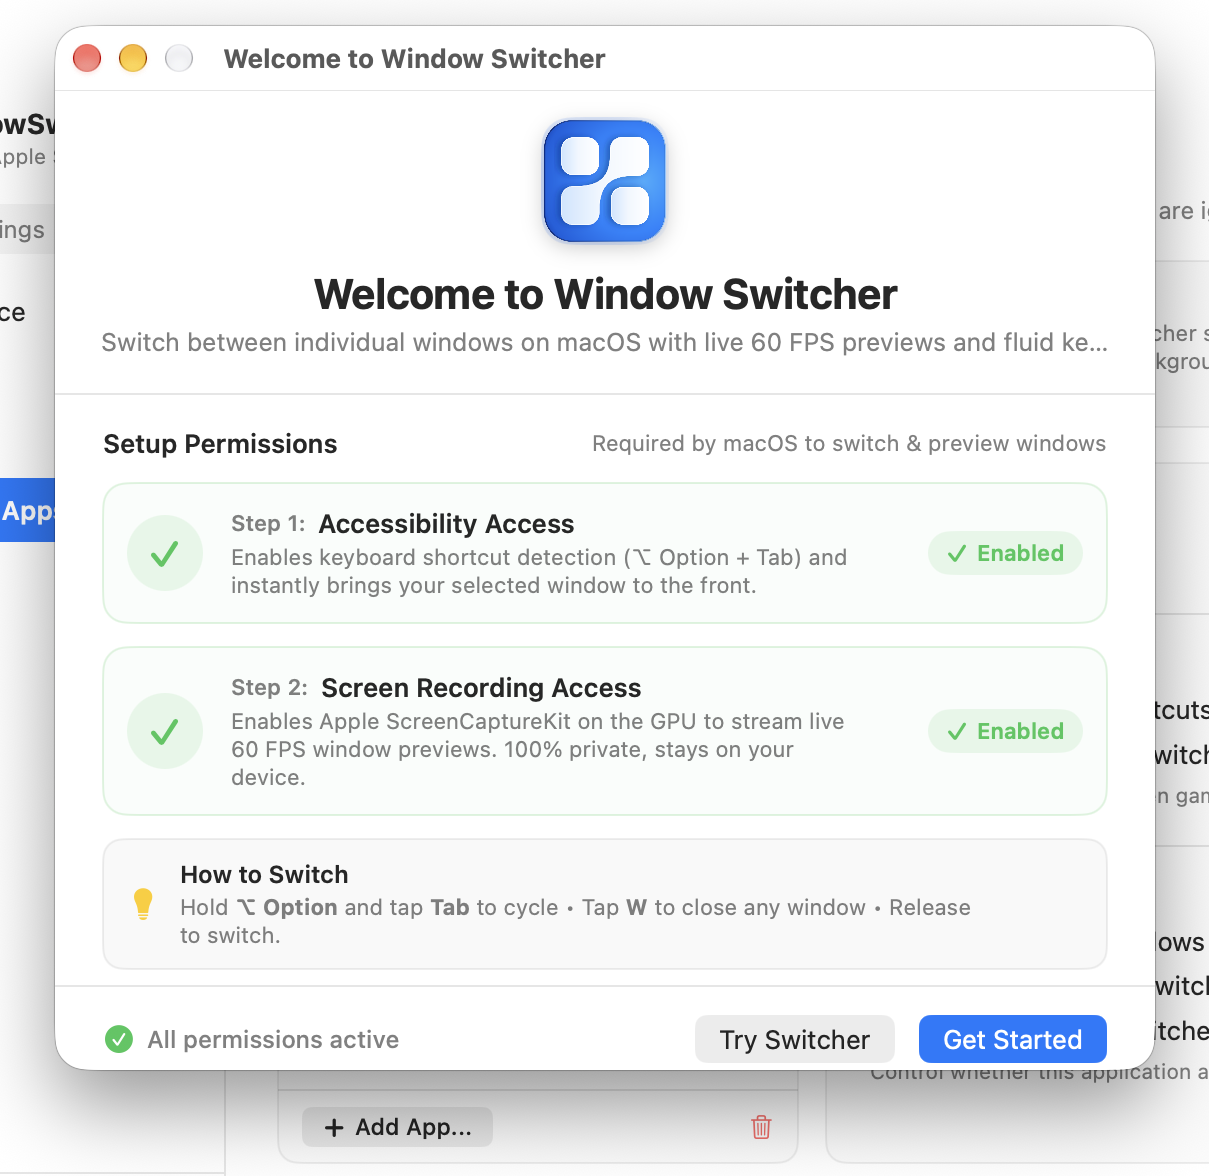
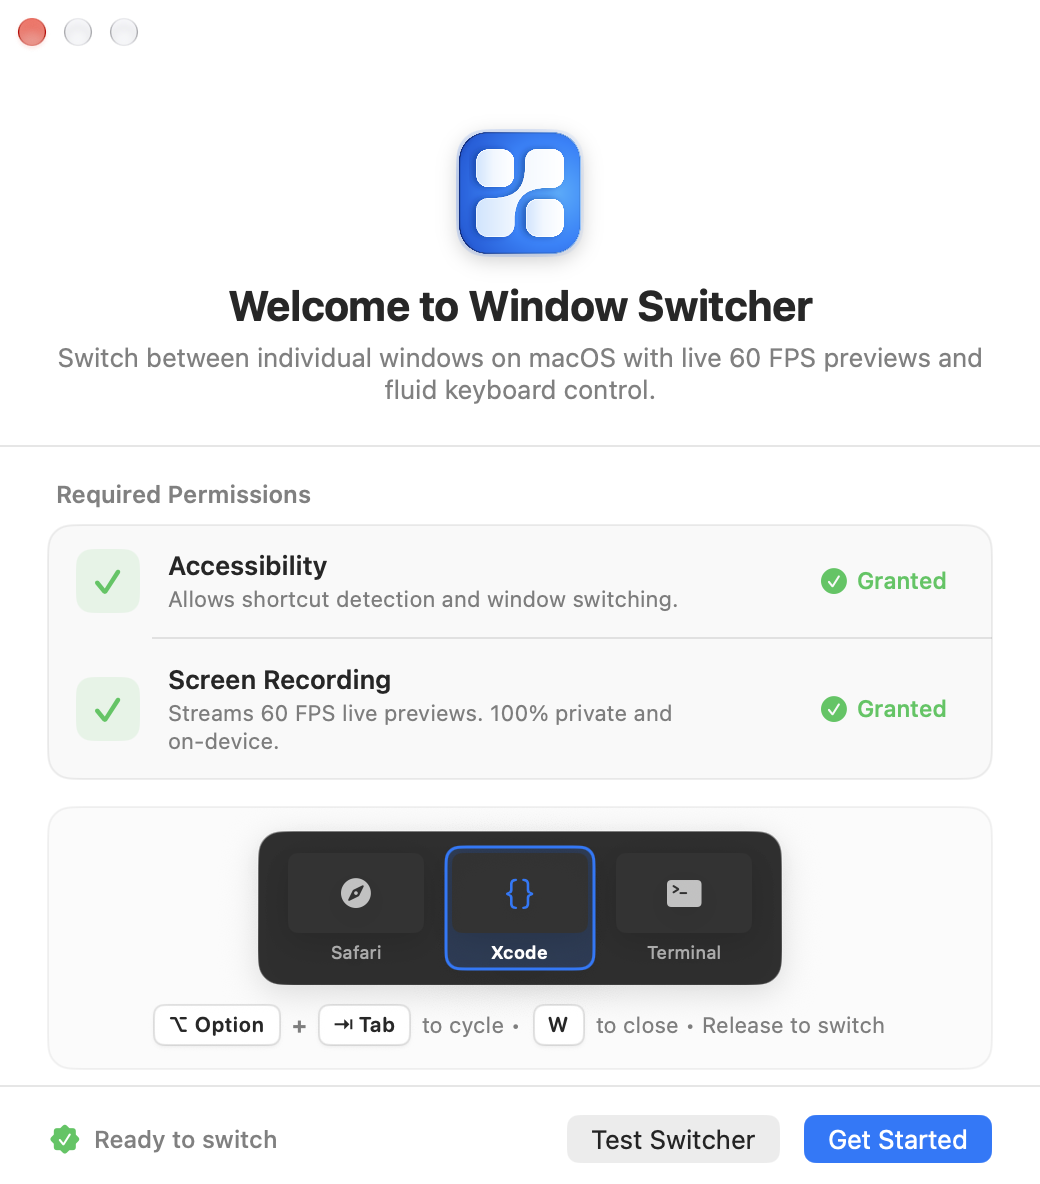
Redesign onboarding view with Apple HIG inset grouped styling and mini switcher preview

diff --git a/Sources/Views/OnboardingView.swift b/Sources/Views/OnboardingView.swift
@@ -16,87 +16,74 @@ public struct OnboardingView: View {
 
     public var body: some View {
         VStack(spacing: 0) {
-            // MARK: - Branded Hero Header
+            // MARK: - Header Hero with Cobalt Azure App Icon
             VStack(spacing: 12) {
                 AppBrandingIcon(size: 64, cornerRadius: 15)
-                    .padding(.top, 24)
+                    .padding(.top, 36)
 
-                VStack(spacing: 4) {
+                VStack(spacing: 5) {
                     Text("Welcome to Window Switcher")
                         .font(.system(size: 21, weight: .bold))
 
                     Text("Switch between individual windows on macOS with live 60 FPS previews and fluid keyboard control.")
-                        .font(.system(size: 12.5))
+                        .font(.system(size: 13))
                         .foregroundColor(.secondary)
                         .multilineTextAlignment(.center)
-                        .padding(.horizontal, 20)
+                        .lineLimit(nil)
+                        .fixedSize(horizontal: false, vertical: true)
+                        .padding(.horizontal, 24)
                 }
             }
-            .padding(.bottom, 18)
+            .padding(.bottom, 20)
 
             Divider()
 
-            // MARK: - Setup & Permissions Checklist
-            VStack(spacing: 12) {
-                HStack {
-                    Text("Setup Permissions")
-                        .font(.system(size: 13, weight: .semibold))
-                    Spacer()
-                    Text("Required by macOS to switch & preview windows")
-                        .font(.system(size: 11))
-                        .foregroundColor(.secondary)
+            // MARK: - Inset Grouped Permissions Checklist (Apple HIG System Settings Style)
+            VStack(alignment: .leading, spacing: 8) {
+                Text("Required Permissions")
+                    .font(.system(size: 12, weight: .semibold))
+                    .foregroundColor(.secondary)
+                    .padding(.leading, 4)
+
+                VStack(spacing: 0) {
+                    // Row 1: Accessibility
+                    permissionRow(
+                        icon: "keyboard",
+                        title: "Accessibility",
+                        subtitle: "Allows shortcut detection and window switching.",
+                        isGranted: permissions.hasAccessibility,
+                        action: { permissions.requestAccessibility() }
+                    )
+
+                    Divider()
+                        .padding(.leading, 52)
+
+                    // Row 2: Screen Recording
+                    permissionRow(
+                        icon: "macwindow.on.rectangle",
+                        title: "Screen Recording",
+                        subtitle: "Streams 60 FPS live previews. 100% private and on-device.",
+                        isGranted: permissions.hasScreenRecording,
+                        action: { permissions.requestScreenRecording() }
+                    )
                 }
-
-                // Step 1: Accessibility
-                permissionStepCard(
-                    stepNumber: 1,
-                    title: "Accessibility Access",
-                    description: "Enables keyboard shortcut detection (\(settings.primaryShortcut.rawValue)) and instantly brings your selected window to the front.",
-                    icon: "keyboard.fill",
-                    isGranted: permissions.hasAccessibility,
-                    actionTitle: "Grant Permission",
-                    action: { permissions.requestAccessibility() }
-                )
-
-                // Step 2: Screen Recording
-                permissionStepCard(
-                    stepNumber: 2,
-                    title: "Screen Recording Access",
-                    description: "Enables Apple ScreenCaptureKit on the GPU to stream live 60 FPS window previews. 100% private, stays on your device.",
-                    icon: "macwindow.on.rectangle",
-                    isGranted: permissions.hasScreenRecording,
-                    actionTitle: "Grant Permission",
-                    action: { permissions.requestScreenRecording() }
+                .background(Color.primary.opacity(0.03))
+                .clipShape(RoundedRectangle(cornerRadius: 12, style: .continuous))
+                .overlay(
+                    RoundedRectangle(cornerRadius: 12, style: .continuous)
+                        .stroke(Color.primary.opacity(0.08), lineWidth: 1)
                 )
             }
             .padding(.horizontal, 24)
             .padding(.top, 16)
 
-            // MARK: - Interactive Quick Tip Card
-            HStack(spacing: 12) {
-                Image(systemName: "lightbulb.fill")
-                    .font(.system(size: 14))
-                    .foregroundColor(.yellow)
-
-                VStack(alignment: .leading, spacing: 2) {
-                    Text("How to Switch")
-                        .font(.system(size: 12, weight: .semibold))
-                    Text("Hold **\(settings.primaryShortcut == .commandTab ? "⌘ Command" : "⌥ Option")** and tap **Tab** to cycle • Tap **W** to close any window • Release to switch.")
-                        .font(.system(size: 11))
-                        .foregroundColor(.secondary)
-                }
-                Spacer()
-            }
-            .padding(.horizontal, 14)
-            .padding(.vertical, 10)
-            .background(Color.primary.opacity(0.03))
-            .clipShape(RoundedRectangle(cornerRadius: 10, style: .continuous))
-            .overlay(
-                RoundedRectangle(cornerRadius: 10, style: .continuous)
-                    .stroke(Color.primary.opacity(0.08), lineWidth: 1)
+            // MARK: - Interactive Product Experience & Keycap Preview
+            MiniSwitcherPreview(
+                shortcutName: settings.primaryShortcut.rawValue,
+                accentColor: settings.accentColor
             )
             .padding(.horizontal, 24)
-            .padding(.top, 12)
+            .padding(.top, 14)
 
             Spacer()
 
@@ -106,17 +93,17 @@ public struct OnboardingView: View {
             HStack(spacing: 12) {
                 if allPermissionsGranted {
                     HStack(spacing: 6) {
-                        Image(systemName: "checkmark.circle.fill")
+                        Image(systemName: "checkmark.seal.fill")
                             .foregroundColor(.green)
-                            .font(.system(size: 14))
-                        Text("All permissions active")
+                            .font(.system(size: 13))
+                        Text("Ready to switch")
                             .font(.system(size: 12, weight: .medium))
                             .foregroundColor(.secondary)
                     }
 
                     Spacer()
 
-                    Button("Try Switcher") {
+                    Button("Test Switcher") {
                         SwitcherState.shared.show()
                     }
                     .controlSize(.regular)
@@ -131,7 +118,7 @@ public struct OnboardingView: View {
                     HStack(spacing: 6) {
                         ProgressView()
                             .scaleEffect(0.65)
-                        Text("Grant permissions above to start")
+                        Text("Grant permissions above to begin")
                             .font(.system(size: 11.5))
                             .foregroundColor(.secondary)
                     }
@@ -156,84 +143,165 @@ public struct OnboardingView: View {
             .padding(.vertical, 14)
             .background(Color(NSColor.windowBackgroundColor))
         }
-        .frame(width: 550, height: 490)
+        .frame(width: 520, height: 560)
         .onAppear {
             permissions.checkPermissions()
         }
     }
 
-    private func permissionStepCard(
-        stepNumber: Int,
-        title: String,
-        description: String,
+    private func permissionRow(
         icon: String,
+        title: String,
+        subtitle: String,
         isGranted: Bool,
-        actionTitle: String,
         action: @escaping () -> Void
     ) -> some View {
-        HStack(alignment: .center, spacing: 14) {
-            // Step / Granted indicator icon
+        HStack(spacing: 14) {
             ZStack {
-                Circle()
+                RoundedRectangle(cornerRadius: 8, style: .continuous)
                     .fill(isGranted ? Color.green.opacity(0.12) : settings.accentColor.opacity(0.10))
-                    .frame(width: 38, height: 38)
+                    .frame(width: 32, height: 32)
 
-                if isGranted {
-                    Image(systemName: "checkmark")
-                        .font(.system(size: 15, weight: .bold))
-                        .foregroundColor(.green)
-                } else {
-                    Image(systemName: icon)
-                        .font(.system(size: 15, weight: .semibold))
-                        .foregroundColor(settings.accentColor)
-                }
+                Image(systemName: isGranted ? "checkmark" : icon)
+                    .font(.system(size: 14, weight: isGranted ? .bold : .medium))
+                    .foregroundColor(isGranted ? .green : settings.accentColor)
             }
 
-            // Description text
             VStack(alignment: .leading, spacing: 2) {
-                HStack(spacing: 6) {
-                    Text("Step \(stepNumber):")
-                        .font(.system(size: 11, weight: .semibold))
-                        .foregroundColor(.secondary)
-                    Text(title)
-                        .font(.system(size: 13, weight: .semibold))
-                }
-
-                Text(description)
+                Text(title)
+                    .font(.system(size: 13, weight: .semibold))
+                Text(subtitle)
                     .font(.system(size: 11))
                     .foregroundColor(.secondary)
+                    .lineLimit(nil)
                     .fixedSize(horizontal: false, vertical: true)
             }
 
             Spacer()
 
-            // Action / Status Pill
             if isGranted {
                 HStack(spacing: 4) {
-                    Image(systemName: "checkmark")
-                        .font(.system(size: 10, weight: .bold))
-                    Text("Enabled")
-                        .font(.system(size: 11, weight: .semibold))
+                    Image(systemName: "checkmark.circle.fill")
+                        .font(.system(size: 13))
+                    Text("Granted")
+                        .font(.system(size: 11.5, weight: .medium))
                 }
                 .foregroundColor(.green)
-                .padding(.horizontal, 9)
-                .padding(.vertical, 4)
-                .background(Color.green.opacity(0.12))
-                .clipShape(Capsule())
+                .padding(.horizontal, 8)
+                .padding(.vertical, 3)
             } else {
-                Button(actionTitle, action: action)
+                Button("Grant Access", action: action)
                     .buttonStyle(.borderedProminent)
                     .controlSize(.small)
             }
         }
-        .padding(12)
-        .background(
-            RoundedRectangle(cornerRadius: 12, style: .continuous)
-                .fill(isGranted ? Color.green.opacity(0.03) : Color.primary.opacity(0.02))
-        )
+        .padding(.horizontal, 14)
+        .padding(.vertical, 12)
+    }
+}
+
+// MARK: - Mini Switcher Preview & Physical Keycaps
+private struct MiniSwitcherPreview: View {
+    let shortcutName: String
+    let accentColor: Color
+
+    var body: some View {
+        VStack(spacing: 10) {
+            // Live Glass Mockup
+            HStack(spacing: 8) {
+                miniCard(icon: "safari.fill", title: "Safari", isSelected: false)
+                miniCard(icon: "curlybraces", title: "Xcode", isSelected: true)
+                miniCard(icon: "terminal.fill", title: "Terminal", isSelected: false)
+            }
+            .padding(.horizontal, 12)
+            .padding(.vertical, 8)
+            .background(
+                RoundedRectangle(cornerRadius: 12, style: .continuous)
+                    .fill(Color(white: 0.12).opacity(0.92))
+            )
+            .overlay(
+                RoundedRectangle(cornerRadius: 12, style: .continuous)
+                    .stroke(
+                        LinearGradient(
+                            colors: [Color.white.opacity(0.38), Color.white.opacity(0.08)],
+                            startPoint: .top,
+                            endPoint: .bottom
+                        ),
+                        lineWidth: 1
+                    )
+            )
+            .shadow(color: Color.black.opacity(0.14), radius: 8, x: 0, y: 4)
+
+            // Physical Apple Keycaps
+            HStack(spacing: 6) {
+                KeycapView(key: shortcutName.contains("Option") ? "⌥ Option" : "⌘ Command")
+                Text("+")
+                    .font(.system(size: 11, weight: .bold))
+                    .foregroundColor(.secondary)
+                KeycapView(key: "⇥ Tab")
+                Text("to cycle •")
+                    .font(.system(size: 11))
+                    .foregroundColor(.secondary)
+                KeycapView(key: "W")
+                Text("to close • Release to switch")
+                    .font(.system(size: 11))
+                    .foregroundColor(.secondary)
+            }
+        }
+        .padding(.vertical, 12)
+        .padding(.horizontal, 14)
+        .frame(maxWidth: .infinity)
+        .background(Color.primary.opacity(0.02))
+        .clipShape(RoundedRectangle(cornerRadius: 12, style: .continuous))
         .overlay(
             RoundedRectangle(cornerRadius: 12, style: .continuous)
-                .stroke(isGranted ? Color.green.opacity(0.20) : Color.primary.opacity(0.08), lineWidth: 1)
+                .stroke(Color.primary.opacity(0.06), lineWidth: 1)
         )
+    }
+
+    private func miniCard(icon: String, title: String, isSelected: Bool) -> some View {
+        VStack(spacing: 4) {
+            ZStack {
+                RoundedRectangle(cornerRadius: 5, style: .continuous)
+                    .fill(Color(white: 0.20))
+                    .frame(width: 68, height: 40)
+
+                Image(systemName: icon)
+                    .font(.system(size: 15))
+                    .foregroundColor(isSelected ? accentColor : .white.opacity(0.7))
+            }
+
+            Text(title)
+                .font(.system(size: 9, weight: isSelected ? .semibold : .regular))
+                .foregroundColor(isSelected ? .white : .white.opacity(0.6))
+        }
+        .padding(3)
+        .background(
+            RoundedRectangle(cornerRadius: 7, style: .continuous)
+                .fill(isSelected ? accentColor.opacity(0.20) : Color.clear)
+        )
+        .overlay(
+            RoundedRectangle(cornerRadius: 7, style: .continuous)
+                .stroke(isSelected ? accentColor : Color.clear, lineWidth: 1.5)
+        )
+    }
+}
+
+private struct KeycapView: View {
+    let key: String
+
+    var body: some View {
+        Text(key)
+            .font(.system(size: 10.5, weight: .semibold, design: .rounded))
+            .foregroundColor(.primary)
+            .padding(.horizontal, 7)
+            .padding(.vertical, 3.5)
+            .background(Color(NSColor.controlBackgroundColor))
+            .clipShape(RoundedRectangle(cornerRadius: 5, style: .continuous))
+            .overlay(
+                RoundedRectangle(cornerRadius: 5, style: .continuous)
+                    .stroke(Color.primary.opacity(0.12), lineWidth: 1)
+            )
+            .shadow(color: Color.black.opacity(0.06), radius: 1, x: 0, y: 1)
     }
 }

diff --git a/Sources/AppDelegate.swift b/Sources/AppDelegate.swift
@@ -223,13 +223,15 @@ public class AppDelegate: NSObject, NSApplicationDelegate {
     @objc public func openOnboarding() {
         if onboardingWindow == nil {
             let window = NSWindow(
-                contentRect: NSRect(x: 0, y: 0, width: 550, height: 490),
-                styleMask: [.titled, .closable, .miniaturizable],
+                contentRect: NSRect(x: 0, y: 0, width: 520, height: 560),
+                styleMask: [.titled, .closable, .fullSizeContentView],
                 backing: .buffered,
                 defer: false
             )
             window.center()
             window.title = "Welcome to Window Switcher"
+            window.titlebarAppearsTransparent = true
+            window.titleVisibility = .hidden
             window.isReleasedWhenClosed = false
             window.contentView = NSHostingView(rootView: OnboardingView(onComplete: { [weak self] in
                 self?.onboardingWindow?.close()
